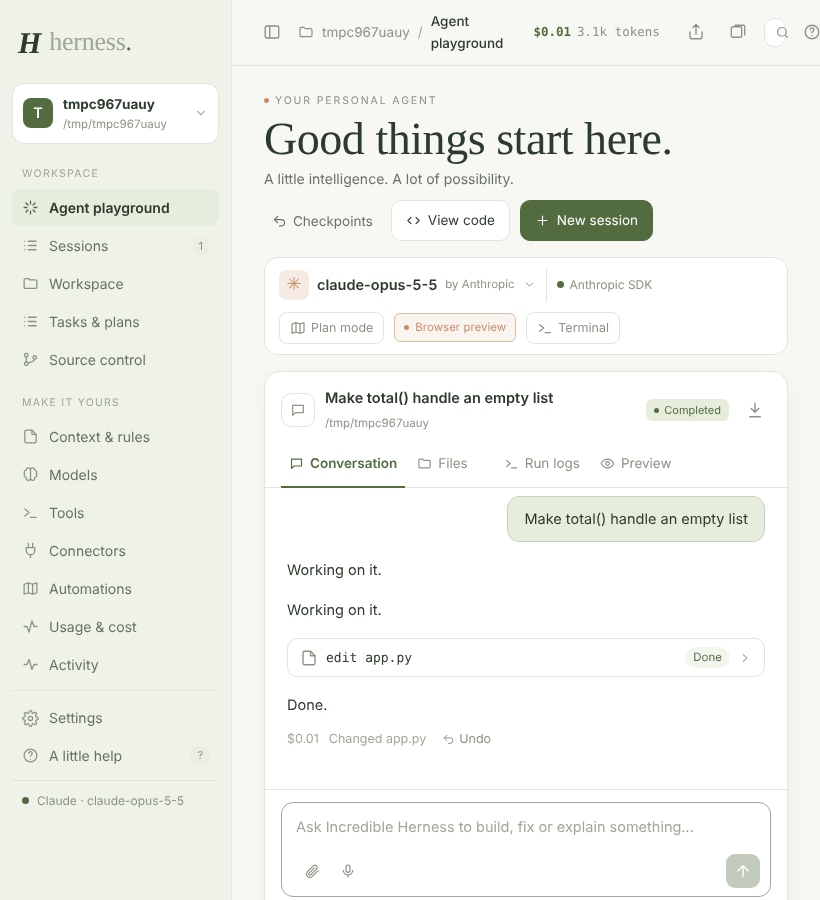
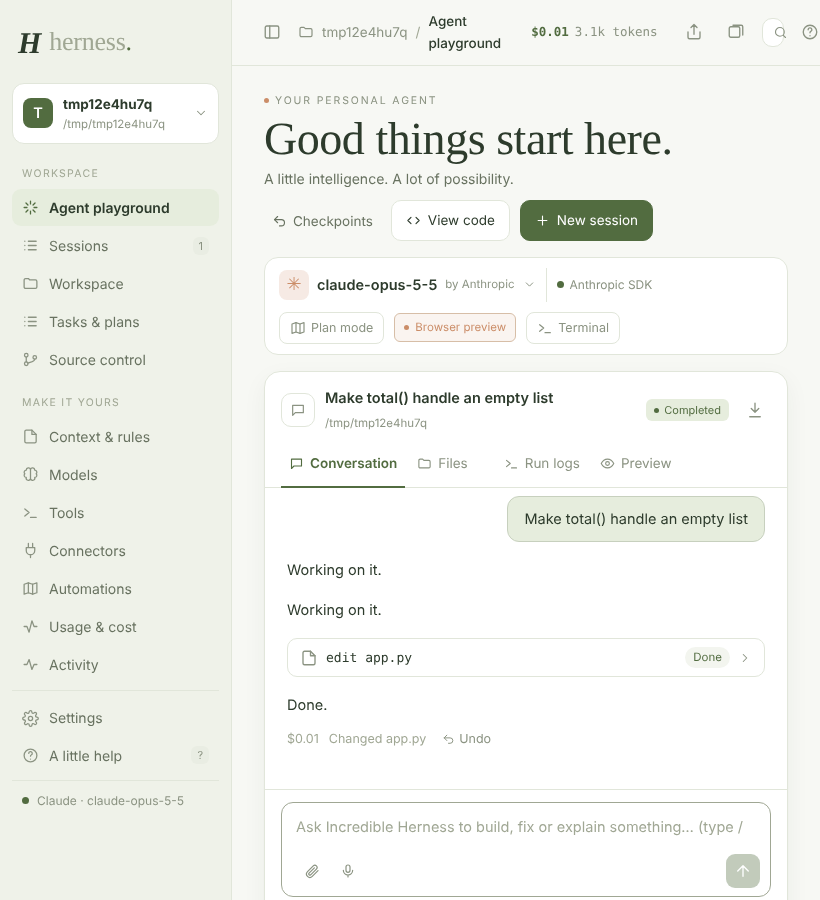
App language: interface in English, Spanish, French, Portuguese or German
- Settings > Models > App language translates menus, buttons, tabs, settings, hints and status text
- UI audit runs in Spanish too (longest words): translated, no overflow at three window sizes

Claude-Session: https://claude.ai/code/session_01AvqsqpDFjBC8YmDhkXMhAb

diff --git a/myagent/static/index.html b/myagent/static/index.html
@@ -664,6 +664,7 @@ details.toolcard { border-radius: 10px; box-shadow: none; }
       </div>
       <div class="row">
         <div class="field"><label>Model for sub-agents &amp; simple steps</label><input id="fastModel" spellcheck="false" list="models"><small id="fastHint"></small></div>
+        <div class="field"><label>App language</label><select id="uiLang"><option value="en">English</option><option value="es">Español</option><option value="fr">Français</option><option value="pt">Português</option><option value="de">Deutsch</option></select></div>
         <div class="field"><label>Reply language</label><input id="language" placeholder="Same as you write" list="langs"><datalist id="langs"><option>English</option><option>Spanish</option><option>French</option><option>Portuguese</option><option>German</option><option>Arabic</option><option>Hindi</option><option>Chinese</option><option>Japanese</option><option>Yoruba</option><option>Swahili</option></datalist></div>
       </div>
       <div class="field" id="svcField"><label>Service</label><div class="presets" id="svcPresets"></div></div>
@@ -997,8 +998,9 @@ function setProvider(p) {
   $("effortField").hidden = p !== "claude"; $("baseField").hidden = p === "claude"; $("baseHint").textContent = BASES[p] || "";
   $("models").innerHTML = (MODELS[p] || []).map(m => `<option value="${m}">`).join("");
 }
+function setPlanTr() { if (typeof uiLang !== "undefined" && uiLang !== "en") { const t = (I18N[uiLang] || {})[$("input").placeholder]; if (t) $("input").placeholder = t; } }
 function setPlan(on) { config.plan = on; $("planBtn").classList.toggle("on", on); $("composer").classList.toggle("plan", on);
-  $("input").placeholder = on ? "Describe what you want. The agent will research and propose a plan first…" : "Ask Incredible Herness to build, fix or explain something…"; }
+  $("input").placeholder = on ? "Describe what you want. The agent will research and propose a plan first…" : "Ask Incredible Herness to build, fix or explain something… (type / for commands)"; setPlanTr(); }
 function showConfig(c) {
   config = c;
   $("modelName").textContent = c.model + (c.provider === "claude" ? ` · ${c.effort}` : "");
@@ -1047,7 +1049,7 @@ $("saveSettings").onclick = async () => {
   const body = { provider, model: $("model").value.trim(), effort: $("effort").value, base_url: $("baseurl").value.trim(), cwd: $("cwd").value.trim(),
     auto: $("auto").checked, web: $("web").checked, compaction: $("compaction").checked, budget: parseFloat($("budget").value) || 0, mcp,
     rules: { allow: lines("allow"), deny: lines("deny") }, diagnostics: $("diagnostics").checked, computer: $("computer").checked,
-    fast_model: $("fastModel").value.trim(), language: $("language").value.trim(), sandbox: $("sandbox").value,
+    fast_model: $("fastModel").value.trim(), language: $("language").value.trim(), ui_language: $("uiLang").value, sandbox: $("sandbox").value,
     mcp_local: [...document.querySelectorAll(".lmcp")].map(r => ({ name: r.querySelector(".ln").value.trim(), command: r.querySelector(".lc").value.trim(),
       args: r.querySelector(".la").value.trim(), env: Object.fromEntries(r.querySelector(".le").value.split("\n").map(l => l.trim()).filter(l => l.includes("="))
         .map(l => [l.slice(0, l.indexOf("=")).trim(), l.slice(l.indexOf("=") + 1).trim()])) })).filter(m => m.name && m.command),
@@ -1442,7 +1444,8 @@ showConfig = function (c) {
   $("railCtxSub").textContent = (c.rules?.allow?.length || 0) + (c.rules?.deny?.length || 0) + " rules · Memory enabled";
   $("toolCount").textContent = (c.mcp_status || []).reduce((a, m) => a + (m.tools || 0), 0) || "";
   $("planBtn").classList.toggle("on", !!c.plan);
-  $("footMode").textContent = (c.auto ? "Auto-approve" : "Approval on") + " · " + (c.sandbox && c.sandbox !== "off" ? "sandboxed" : "unsandboxed");
+  const L = w => ((I18N[c.ui_language] || {})[w] || w);
+  $("footMode").textContent = L(c.auto ? "Auto-approve" : "Approval on") + " · " + L(c.sandbox && c.sandbox !== "off" ? "sandboxed" : "unsandboxed");
 };
 const _setBusy = setBusy;
 setBusy = function (b) { _setBusy(b); for (const id of ["chatStatus", "railStatus"]) { $(id).textContent = b ? "Working" : (document.body.classList.contains("chatting") ? "Completed" : "Ready"); $(id).classList.toggle("busy", b); } };
@@ -1573,6 +1576,31 @@ $("fpPath").addEventListener("keydown", e => { if (e.key === "Enter") useFolder(
 $("fpChoose").onclick = async () => { const f = await window.pywebview.api.pick_folder(); if (f) useFolder(f); };
 $("fpClose").onclick = () => $("folderPicker").close();
 $("wsBox").onclick = $("railWsBtn").onclick = $("folderPill").onclick = openFolderPicker;
+
+// ---------- Interface language ----------
+const I18N = {"es": {"Agent playground": "Área del agente", "Sessions": "Sesiones", "New session": "Nueva sesión", "Parallel session (worktree)": "Sesión paralela (worktree)", "Workspace": "Espacio de trabajo", "Tasks & plans": "Tareas y planes", "Source control": "Control de versiones", "Make it yours": "Hazlo tuyo", "Context & rules": "Contexto y reglas", "Models": "Modelos", "Tools": "Herramientas", "Connectors": "Conectores", "Automations": "Automatizaciones", "Usage & cost": "Uso y costo", "Activity": "Actividad", "Settings": "Ajustes", "A little help": "Ayuda", "Jump to anything…": "Ir a cualquier cosa…", "Your personal agent": "Tu agente personal", "Good things start here.": "Lo bueno empieza aquí.", "A little intelligence. A lot of possibility.": "Un poco de inteligencia. Muchas posibilidades.", "Checkpoints": "Puntos de control", "View code": "Ver código", "Plan mode": "Modo plan", "Browser preview": "Vista del navegador", "Terminal": "Terminal", "Conversation": "Conversación", "Files": "Archivos", "Run logs": "Registros", "Preview": "Vista previa", "Run overview": "Resumen", "No plan yet": "Aún sin plan", "Open task board": "Abrir tareas", "Model": "Modelo", "Tokens used": "Tokens usados", "Cost": "Costo", "Your next edit, safely saved.": "Tu próxima edición, guardada.", "View": "Ver", "Ready": "Listo", "Working": "Trabajando", "Completed": "Completado", "Idle": "Inactivo", "Your API key. Your machine. Your rules.": "Tu clave. Tu equipo. Tus reglas.", "What would you like to build?": "¿Qué quieres construir?", "Explain what this folder contains": "Explica qué contiene esta carpeta", "Find and fix a bug": "Encuentra y corrige un error", "Write tests for my code": "Escribe pruebas para mi código", "Build a small web page and preview it": "Crea una página web y muéstrala", "Allow": "Permitir", "Deny": "Denegar", "Done": "Hecho", "Running": "Ejecutando", "Failed": "Falló", "Needs approval": "Requiere aprobación", "Undo": "Deshacer", "Cancel": "Cancelar", "Save": "Guardar", "Tools & limits": "Herramientas y límites", "Permissions": "Permisos", "Project instructions": "Instrucciones del proyecto", "Memory": "Memoria", "Schedules": "Programación", "Phone": "Teléfono", "Updates": "Actualizaciones", "Project folder": "Carpeta del proyecto", "Open": "Abrir", "Choose folder…": "Elegir carpeta…", "Keyboard shortcuts": "Atajos de teclado", "Load models": "Cargar modelos", "Test connection": "Probar conexión", "Ask Incredible Herness to build, fix or explain something… (type / for commands)": "Pide a Incredible Herness que construya, arregle o explique algo… (escribe / para comandos)", "Approval on": "Aprobación activada", "Auto-approve": "Aprobación automática", "sandboxed": "en sandbox", "unsandboxed": "sin sandbox", "Search models…": "Buscar modelos…"}, "fr": {"Agent playground": "Espace agent", "Sessions": "Sessions", "New session": "Nouvelle session", "Parallel session (worktree)": "Session parallèle (worktree)", "Workspace": "Espace de travail", "Tasks & plans": "Tâches et plans", "Source control": "Contrôle de source", "Make it yours": "Personnaliser", "Context & rules": "Contexte et règles", "Models": "Modèles", "Tools": "Outils", "Connectors": "Connecteurs", "Automations": "Automatisations", "Usage & cost": "Usage et coût", "Activity": "Activité", "Settings": "Réglages", "A little help": "Aide", "Jump to anything…": "Aller à…", "Your personal agent": "Votre agent personnel", "Good things start here.": "Les bonnes choses commencent ici.", "A little intelligence. A lot of possibility.": "Un peu d'intelligence. Beaucoup de possibilités.", "Checkpoints": "Points de contrôle", "View code": "Voir le code", "Plan mode": "Mode plan", "Browser preview": "Aperçu navigateur", "Terminal": "Terminal", "Conversation": "Conversation", "Files": "Fichiers", "Run logs": "Journaux", "Preview": "Aperçu", "Run overview": "Aperçu de l'exécution", "No plan yet": "Pas encore de plan", "Open task board": "Ouvrir les tâches", "Model": "Modèle", "Tokens used": "Jetons utilisés", "Cost": "Coût", "Your next edit, safely saved.": "Votre prochaine modification, sauvegardée.", "View": "Voir", "Ready": "Prêt", "Working": "En cours", "Completed": "Terminé", "Idle": "Inactif", "Your API key. Your machine. Your rules.": "Votre clé. Votre machine. Vos règles.", "What would you like to build?": "Que voulez-vous créer ?", "Explain what this folder contains": "Explique le contenu de ce dossier", "Find and fix a bug": "Trouver et corriger un bug", "Write tests for my code": "Écrire des tests pour mon code", "Build a small web page and preview it": "Créer une petite page web et l'afficher", "Allow": "Autoriser", "Deny": "Refuser", "Done": "Fait", "Running": "En cours", "Failed": "Échec", "Needs approval": "À approuver", "Undo": "Annuler", "Cancel": "Annuler", "Save": "Enregistrer", "Tools & limits": "Outils et limites", "Permissions": "Autorisations", "Project instructions": "Instructions du projet", "Memory": "Mémoire", "Schedules": "Planification", "Phone": "Téléphone", "Updates": "Mises à jour", "Project folder": "Dossier du projet", "Open": "Ouvrir", "Choose folder…": "Choisir un dossier…", "Keyboard shortcuts": "Raccourcis clavier", "Load models": "Charger les modèles", "Test connection": "Tester la connexion", "Ask Incredible Herness to build, fix or explain something… (type / for commands)": "Demandez à Incredible Herness de créer, corriger ou expliquer… (tapez / pour les commandes)", "Approval on": "Approbation activée", "Auto-approve": "Approbation auto", "sandboxed": "isolé", "unsandboxed": "non isolé", "Search models…": "Rechercher des modèles…"}, "pt": {"Agent playground": "Área do agente", "Sessions": "Sessões", "New session": "Nova sessão", "Parallel session (worktree)": "Sessão paralela (worktree)", "Workspace": "Espaço de trabalho", "Tasks & plans": "Tarefas e planos", "Source control": "Controle de versão", "Make it yours": "Personalize", "Context & rules": "Contexto e regras", "Models": "Modelos", "Tools": "Ferramentas", "Connectors": "Conectores", "Automations": "Automações", "Usage & cost": "Uso e custo", "Activity": "Atividade", "Settings": "Configurações", "A little help": "Ajuda", "Jump to anything…": "Ir para…", "Your personal agent": "Seu agente pessoal", "Good things start here.": "Coisas boas começam aqui.", "A little intelligence. A lot of possibility.": "Um pouco de inteligência. Muitas possibilidades.", "Checkpoints": "Pontos de controle", "View code": "Ver código", "Plan mode": "Modo plano", "Browser preview": "Prévia do navegador", "Terminal": "Terminal", "Conversation": "Conversa", "Files": "Arquivos", "Run logs": "Registros", "Preview": "Prévia", "Run overview": "Resumo", "No plan yet": "Sem plano ainda", "Open task board": "Abrir tarefas", "Model": "Modelo", "Tokens used": "Tokens usados", "Cost": "Custo", "Your next edit, safely saved.": "Sua próxima edição, salva.", "View": "Ver", "Ready": "Pronto", "Working": "Trabalhando", "Completed": "Concluído", "Idle": "Ocioso", "Your API key. Your machine. Your rules.": "Sua chave. Sua máquina. Suas regras.", "What would you like to build?": "O que você quer construir?", "Explain what this folder contains": "Explique o que esta pasta contém", "Find and fix a bug": "Encontre e corrija um bug", "Write tests for my code": "Escreva testes para meu código", "Build a small web page and preview it": "Crie uma página web e visualize", "Allow": "Permitir", "Deny": "Negar", "Done": "Feito", "Running": "Executando", "Failed": "Falhou", "Needs approval": "Precisa de aprovação", "Undo": "Desfazer", "Cancel": "Cancelar", "Save": "Salvar", "Tools & limits": "Ferramentas e limites", "Permissions": "Permissões", "Project instructions": "Instruções do projeto", "Memory": "Memória", "Schedules": "Agendamentos", "Phone": "Telefone", "Updates": "Atualizações", "Project folder": "Pasta do projeto", "Open": "Abrir", "Choose folder…": "Escolher pasta…", "Keyboard shortcuts": "Atalhos de teclado", "Load models": "Carregar modelos", "Test connection": "Testar conexão", "Ask Incredible Herness to build, fix or explain something… (type / for commands)": "Peça ao Incredible Herness para construir, corrigir ou explicar… (digite / para comandos)", "Approval on": "Aprovação ativada", "Auto-approve": "Aprovação automática", "sandboxed": "isolado", "unsandboxed": "sem isolamento", "Search models…": "Buscar modelos…"}, "de": {"Agent playground": "Agenten-Bereich", "Sessions": "Sitzungen", "New session": "Neue Sitzung", "Parallel session (worktree)": "Parallele Sitzung (Worktree)", "Workspace": "Arbeitsbereich", "Tasks & plans": "Aufgaben & Pläne", "Source control": "Versionskontrolle", "Make it yours": "Anpassen", "Context & rules": "Kontext & Regeln", "Models": "Modelle", "Tools": "Werkzeuge", "Connectors": "Konnektoren", "Automations": "Automationen", "Usage & cost": "Nutzung & Kosten", "Activity": "Aktivität", "Settings": "Einstellungen", "A little help": "Hilfe", "Jump to anything…": "Springe zu…", "Your personal agent": "Dein persönlicher Agent", "Good things start here.": "Gutes beginnt hier.", "A little intelligence. A lot of possibility.": "Ein wenig Intelligenz. Viele Möglichkeiten.", "Checkpoints": "Prüfpunkte", "View code": "Code ansehen", "Plan mode": "Planmodus", "Browser preview": "Browser-Vorschau", "Terminal": "Terminal", "Conversation": "Unterhaltung", "Files": "Dateien", "Run logs": "Protokolle", "Preview": "Vorschau", "Run overview": "Übersicht", "No plan yet": "Noch kein Plan", "Open task board": "Aufgaben öffnen", "Model": "Modell", "Tokens used": "Tokens genutzt", "Cost": "Kosten", "Your next edit, safely saved.": "Deine nächste Änderung, gesichert.", "View": "Ansehen", "Ready": "Bereit", "Working": "Arbeitet", "Completed": "Fertig", "Idle": "Bereit", "Your API key. Your machine. Your rules.": "Dein Schlüssel. Dein Rechner. Deine Regeln.", "What would you like to build?": "Was möchtest du bauen?", "Explain what this folder contains": "Erkläre, was dieser Ordner enthält", "Find and fix a bug": "Finde und behebe einen Fehler", "Write tests for my code": "Schreibe Tests für meinen Code", "Build a small web page and preview it": "Baue eine kleine Webseite mit Vorschau", "Allow": "Erlauben", "Deny": "Ablehnen", "Done": "Erledigt", "Running": "Läuft", "Failed": "Fehlgeschlagen", "Needs approval": "Genehmigung nötig", "Undo": "Rückgängig", "Cancel": "Abbrechen", "Save": "Speichern", "Tools & limits": "Werkzeuge & Limits", "Permissions": "Berechtigungen", "Project instructions": "Projektanweisungen", "Memory": "Gedächtnis", "Schedules": "Zeitpläne", "Phone": "Telefon", "Updates": "Updates", "Project folder": "Projektordner", "Open": "Öffnen", "Choose folder…": "Ordner wählen…", "Keyboard shortcuts": "Tastenkürzel", "Load models": "Modelle laden", "Test connection": "Verbindung testen", "Ask Incredible Herness to build, fix or explain something… (type / for commands)": "Bitte Incredible Herness, etwas zu bauen, zu reparieren oder zu erklären… (/ für Befehle)", "Approval on": "Genehmigung an", "Auto-approve": "Automatisch erlauben", "sandboxed": "abgeschirmt", "unsandboxed": "ohne Sandbox", "Search models…": "Modelle suchen…"}};
+const I18N_ATTR = ["placeholder", "title", "aria-label"];
+let uiLang = "en";
+function tr(text) { return (I18N[uiLang] || {})[text.trim()] || null; }
+function translateTree(root) {
+  if (uiLang === "en" || !root) return;
+  const walker = document.createTreeWalker(root, NodeFilter.SHOW_TEXT, { acceptNode: n => n.nodeValue.trim() && !n.parentElement.closest("#log, pre, code, .xterm, #chatList, #mpList, #palList, #fpRecent, textarea") ? 1 : 2 });
+  const nodes = []; while (walker.nextNode()) nodes.push(walker.currentNode);
+  for (const n of nodes) { const key = n.__en || n.nodeValue.trim(); const t = (I18N[uiLang] || {})[key]; if (t) { n.__en = key; n.nodeValue = n.nodeValue.replace(n.nodeValue.trim(), t); } }
+  const els = root.nodeType === 1 ? [root, ...root.querySelectorAll("[placeholder]")] : [];
+  for (const e of els) { const ph = e.getAttribute && e.getAttribute("placeholder"); if (!ph) continue; const key = e.__enPh || ph; const t = (I18N[uiLang] || {})[key]; if (t) { e.__enPh = key; e.placeholder = t; } }
+}
+function applyLanguage(lang) {
+  if (lang === uiLang) return;
+  if (uiLang !== "en") { location.reload(); return; }  // switching between two translations: start clean
+  uiLang = lang || "en"; document.documentElement.lang = uiLang; translateTree(document.body);
+}
+new MutationObserver(ms => { if (uiLang === "en") return; for (const m of ms) for (const n of m.addedNodes) if (n.nodeType === 1) translateTree(n); else if (n.nodeType === 3 && n.parentElement) translateTree(n.parentElement); })
+  .observe(document.body, { childList: true, subtree: true });
+const _showConfigL = showConfig;
+showConfig = function (c) { _showConfigL(c); applyLanguage(c.ui_language || "en"); for (const id of ["chatStatus", "railStatus", "todoSum"]) { const t = tr($(id).textContent); if (t) $(id).textContent = t; } };
+const _openSettingsL = openSettings;
+openSettings = async function (tab) { await _openSettingsL(tab); $("uiLang").value = config.ui_language || "en"; };
 
 loadChats(); $("input").focus();
 setTimeout(() => { if (config.build > 0) api("/api/update").then(r => { if (r.update) showUpdate(r); }).catch(() => {}); }, 4000);

diff --git a/tests/ui_audit.js b/tests/ui_audit.js
@@ -37,7 +37,14 @@ async function overlaps(pg, label) {
     await pg.waitForTimeout(500);
     const L = `${w}px ${scheme}`;
     await overlaps(pg, L + ' start');
-    if (w === 1440) {
+    if (process.argv[3]) {  // translated interface: check the words changed and nothing overflows
+      const text = await pg.innerText('aside');
+      check(`[${L}] sidebar is translated`, text.includes('Control de versiones') && text.includes('Ajustes'), text.slice(0, 80));
+      await pg.click('#openSettings'); await pg.waitForSelector('#settings[open]');
+      for (const t of ['model', 'tools', 'perms']) { await pg.click(`#tabs button[data-p="${t}"]`); await pg.waitForTimeout(120); await overlaps(pg, `${L} settings ${t}`); }
+      await pg.click('#cancelSettings');
+      await pg.screenshot({ path: `audit-es-${w}.png` });
+    } else if (w === 1440) {
       // --- sidebar
       await pg.click('#navSessions'); check('Sessions opens the session list', await pg.isVisible('#sessBox'));
       await pg.click('#navGit'); check('Source control opens Git', await pg.isVisible('#gitView'));

diff --git a/tests/ui_audit.py b/tests/ui_audit.py
@@ -11,6 +11,10 @@ for c in (["init", "-q", "-b", "main"], ["config", "user.email", "t@e.com"], ["c
 from myagent.gui import start_server
 SCRIPT[:] = [("tool", "todo_write", {"todos": [{"content": "Read app.py", "status": "completed"}, {"content": "Handle empty input", "status": "in_progress"}]}),
              ("tool", "edit_file", {"path": "app.py", "old_text": "    return sum(xs)", "new_text": "    return sum(xs or [])"}), ("text", "Done.")]
+import os
 server, url, session = start_server(str(work))
-r = subprocess.run(["node", str(Path(__file__).with_name("ui_audit.js")), url], capture_output=True, text=True, timeout=300, cwd=Path(__file__).parent.parent)
+lang = os.environ.get("HERNESS_UI_LANG", "")
+if lang:
+    session.config["ui_language"] = lang
+r = subprocess.run(["node", str(Path(__file__).with_name("ui_audit.js")), url] + ([lang] if lang else []), capture_output=True, text=True, timeout=300, cwd=Path(__file__).parent.parent)
 print(r.stdout[-6000:], r.stderr[-2000:])

diff --git a/myagent/gui.py b/myagent/gui.py
@@ -724,7 +724,7 @@ class Session:
                        "mcp": [], "rules": {}, "hooks": {}, "github_token": "", "diagnostics": True,
                        "computer": False, "schedules": [], "phone": False, "voice_key": "", "auto": False, "plan": False,
                        "fast_model": "", "mcp_local": [], "sandbox": "off", "language": "", "chat_order": [],
-                       "recent_folders": []}
+                       "recent_folders": [], "ui_language": "en"}
         self.mcp = McpManager()
         self.quit_app = None  # set by the desktop app: closes the window
         self.new_window = None  # set by the desktop app: opens another window

diff --git a/myagent/__init__.py b/myagent/__init__.py
@@ -1,1 +1,1 @@
-__version__ = "0.6.4"
+__version__ = "0.7.0"

diff --git a/README.md b/README.md
@@ -36,7 +36,7 @@ reads and edits files, searches the web, and asks before every change.
 - **Command sandbox** (macOS, Linux): commands can only change the project folder; strict mode also blocks the internet.
 - **Model routing:** sub-agents use a cheaper model (Claude Haiku 5.5 by default) while the main agent uses yours.
 - **Share** a chat as a secret GitHub gist, open **several windows**, drag to **reorder chats**, **keyboard shortcuts**
-  (Ctrl/⌘+/), a **reply language** setting, and **import/export of settings** between computers.
+  (Ctrl/⌘+/), the app in **English, Spanish, French, Portuguese or German**, a **reply language** setting, and **import/export of settings** between computers.
 - **Updates install themselves:** "Install & restart" downloads the new version and relaunches.
 - **Problem reports:** logs in `~/.incredible-herness/logs` (secrets removed) and a "Report a problem" button.
 - **Update check** from Settings → Updates.
